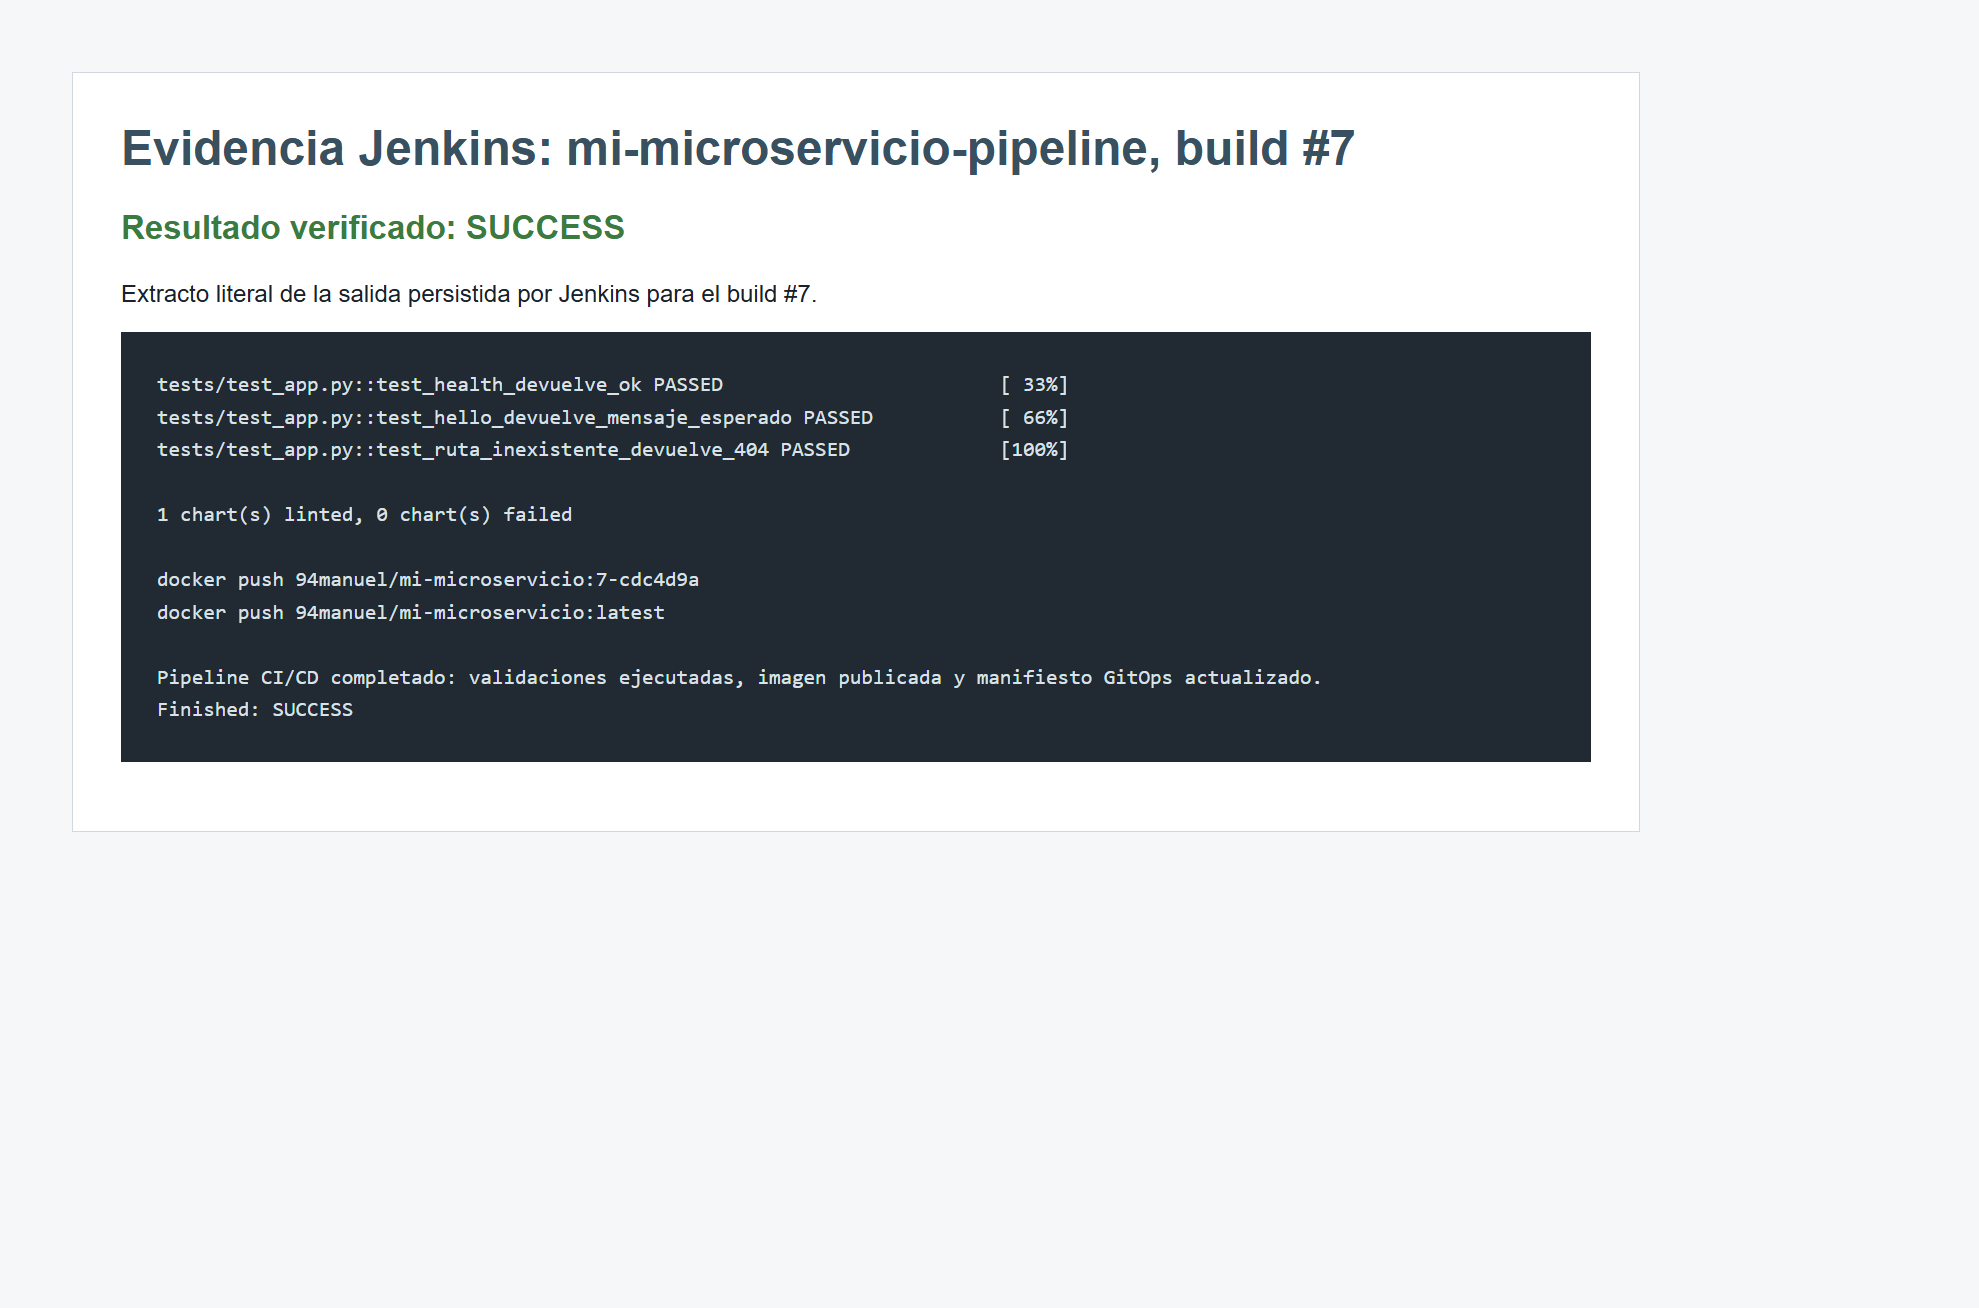
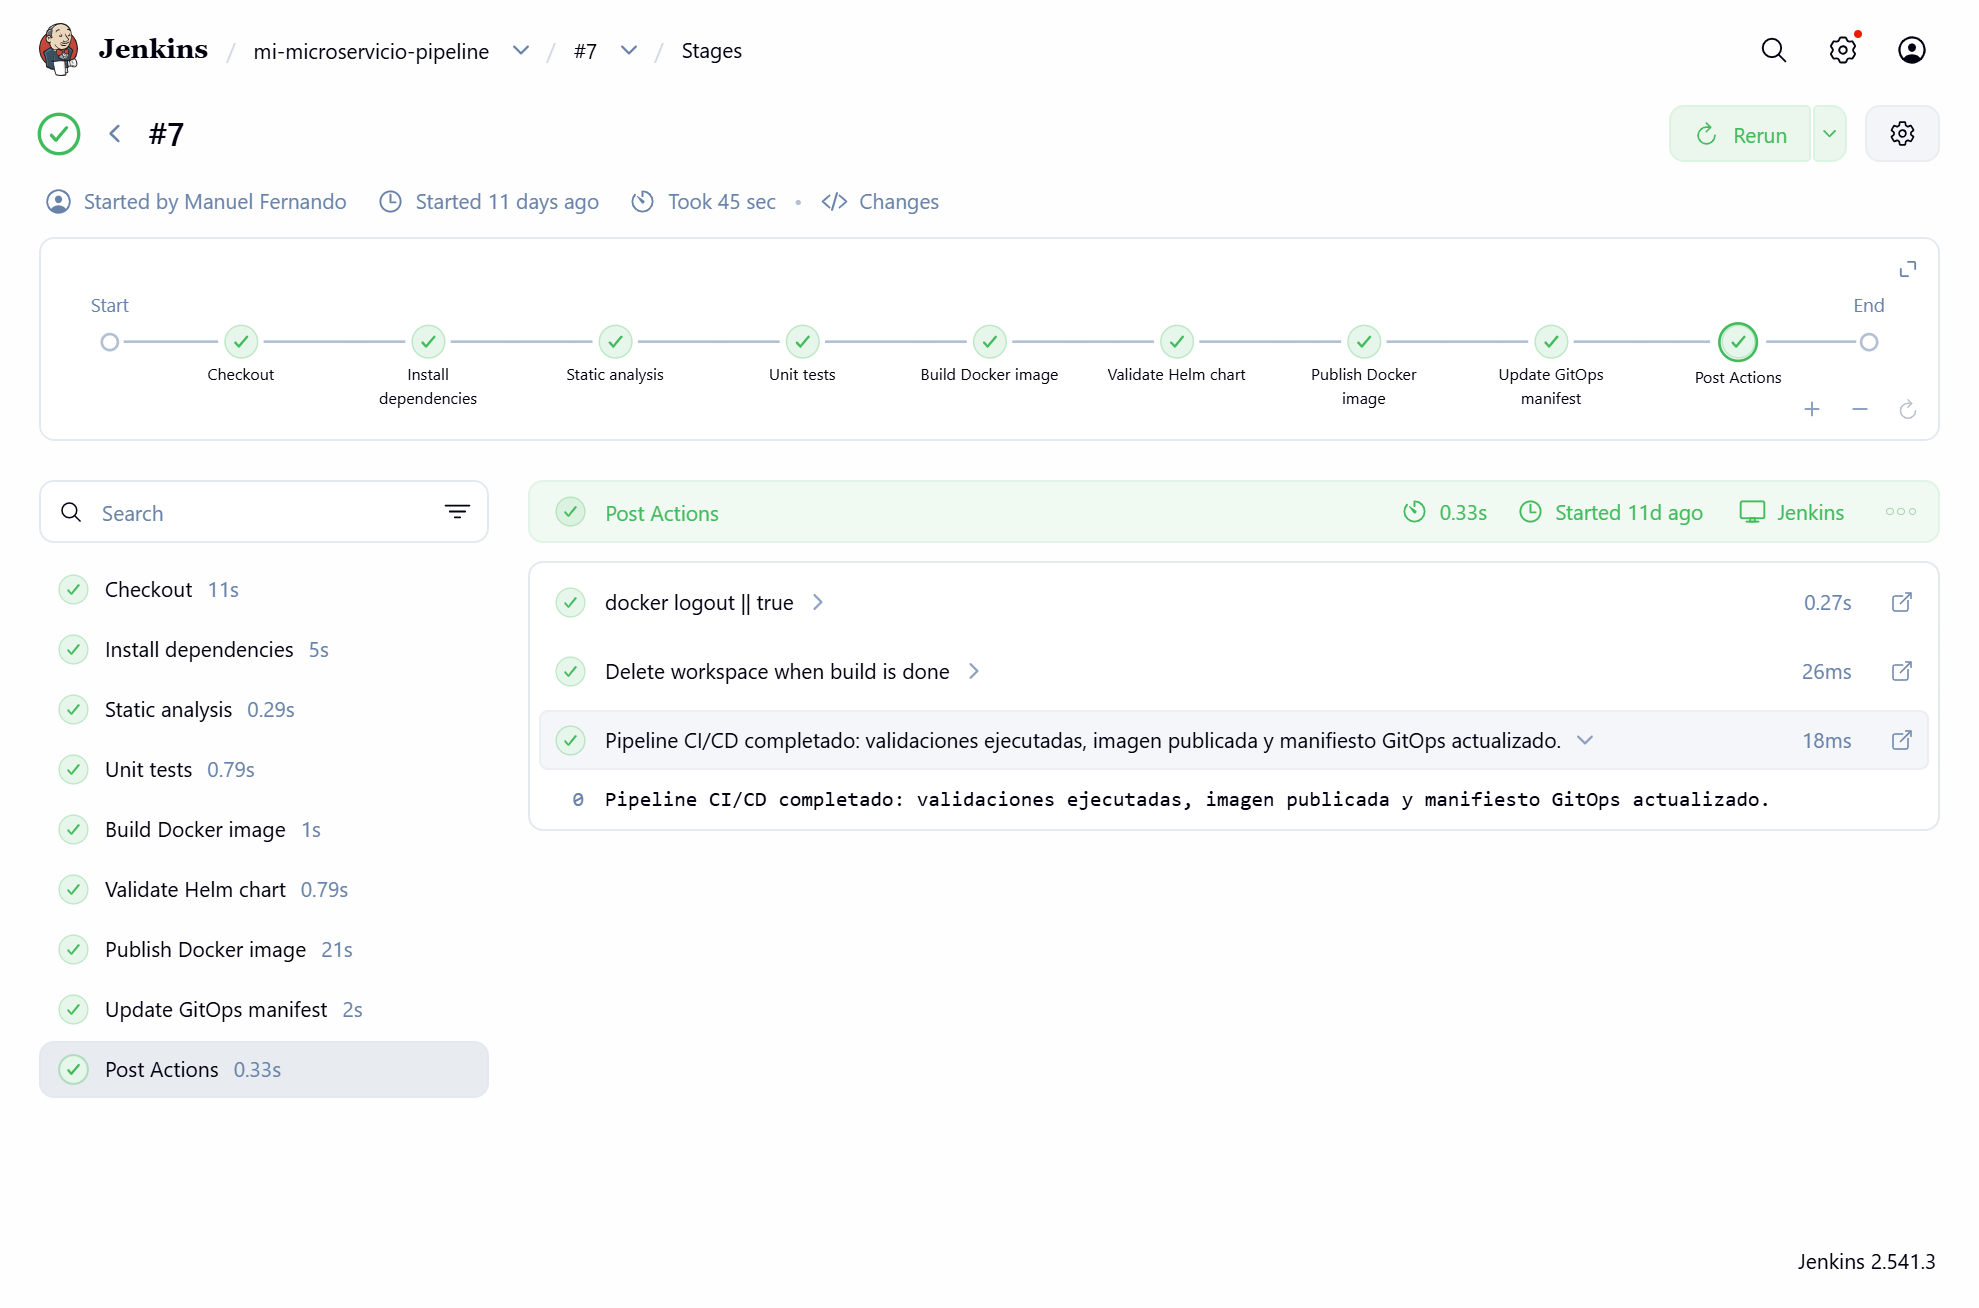
docs: replace Jenkins log extract with Pipeline Overview capture

diff --git a/docs/ACTIVIDAD_1_INFORME.md b/docs/ACTIVIDAD_1_INFORME.md
@@ -28,7 +28,7 @@ Implementar un flujo CI/CD para un microservicio FastAPI que integre validacion 
 | GitOps | Helm y Argo CD | `argocd/application.yaml` apunta al chart `helm` y usa `values-dev.yaml`. |
 | Monitoreo | Prometheus y Grafana | `docker-compose.monitoring.yml` arranca ambos servicios y provisiona el dashboard. |
 
-La ejecucion Jenkins #7 documentada durante la practica termino en `SUCCESS`: ejecuto las etapas de checkout, dependencias, analisis estatico, pruebas unitarias, build Docker, validacion Helm, publicacion de imagen y actualizacion GitOps. Adicionalmente, la ejecucion GitHub Actions `33335315017` del 30 de agosto de 2026 finalizo exitosamente con los jobs `lint`, `test`, `docker-build-validation`, `snyk` y `sonarcloud`, y publico el artefacto descargable `snyk-report`. La evidencia operativa y las capturas propias estan consolidadas en `docs/EVIDENCIA_OPERATIVA.md`.
+La ejecucion Jenkins #7 documentada durante la practica termino en `SUCCESS`: la captura autenticada de Pipeline Overview muestra aprobados los stages de checkout, dependencias, analisis estatico, pruebas unitarias, build Docker, validacion Helm, publicacion de imagen y actualizacion GitOps. Adicionalmente, la ejecucion GitHub Actions `33335315017` del 30 de agosto de 2026 finalizo exitosamente con los jobs `lint`, `test`, `docker-build-validation`, `snyk` y `sonarcloud`, y publico el artefacto descargable `snyk-report`. La evidencia operativa y las capturas propias estan consolidadas en `docs/EVIDENCIA_OPERATIVA.md`.
 
 ## Seguridad y recomendaciones
 

diff --git a/docs/EVIDENCIA_OPERATIVA.md b/docs/EVIDENCIA_OPERATIVA.md
@@ -27,7 +27,7 @@ Capturas propias almacenadas en el repositorio:
 2. `evidencia-grafana-dashboard.png`: dashboard Grafana con estado `1`, memoria, CPU y solicitudes HTTP reales.
 3. `evidencia-sonarcloud-quality-gate.png`: SonarQube Cloud muestra Quality Gate `Passed`, 0 nuevos issues y 0 Security Hotspots.
 4. `evidencia-github-actions-snyk-sonarcloud.png`: CI Pipeline exitoso, con los cinco jobs y un artefacto Snyk publicado.
-5. `evidencia-jenkins-build-7.png`: extracto de la salida real del build Jenkins #7 con pruebas, Helm lint, publicacion y `SUCCESS`.
+5. `evidencia-jenkins-build-7.png`: captura autenticada de Jenkins Pipeline Overview para el build #7; muestra en verde `Checkout`, dependencias, analisis estatico, pruebas, build Docker, validacion Helm, publicacion Docker, actualizacion GitOps y post acciones.
 
 ## Evidencia CI/CD y GitOps
 
